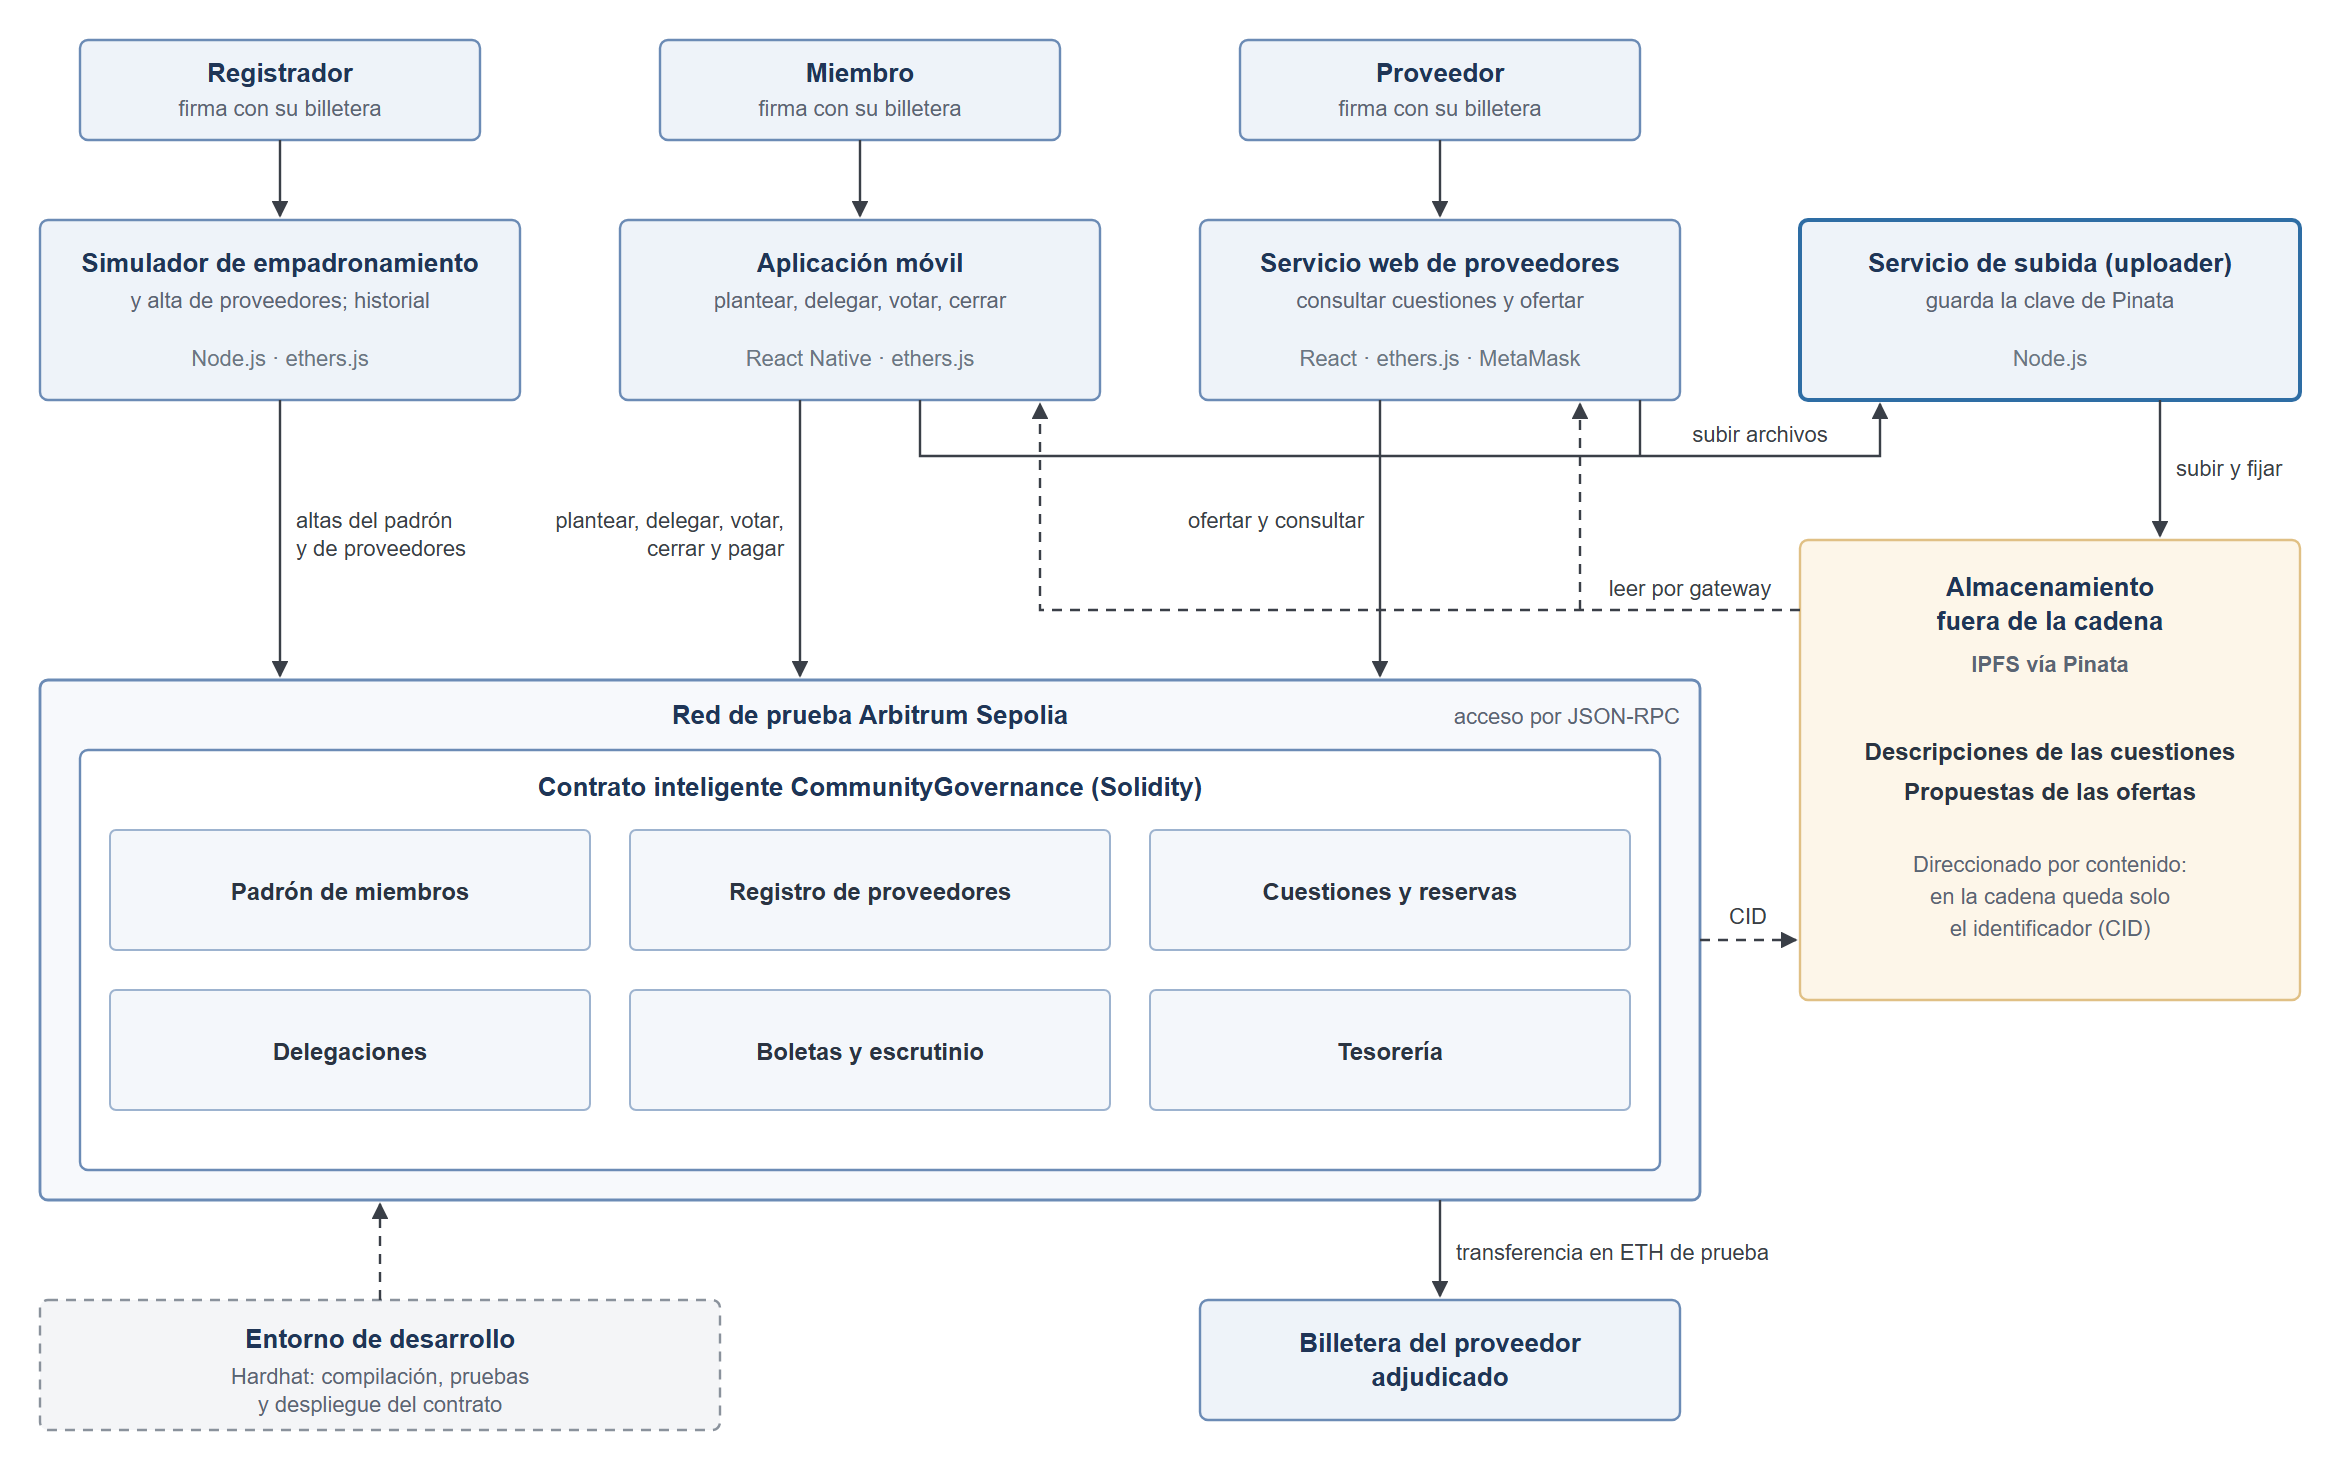
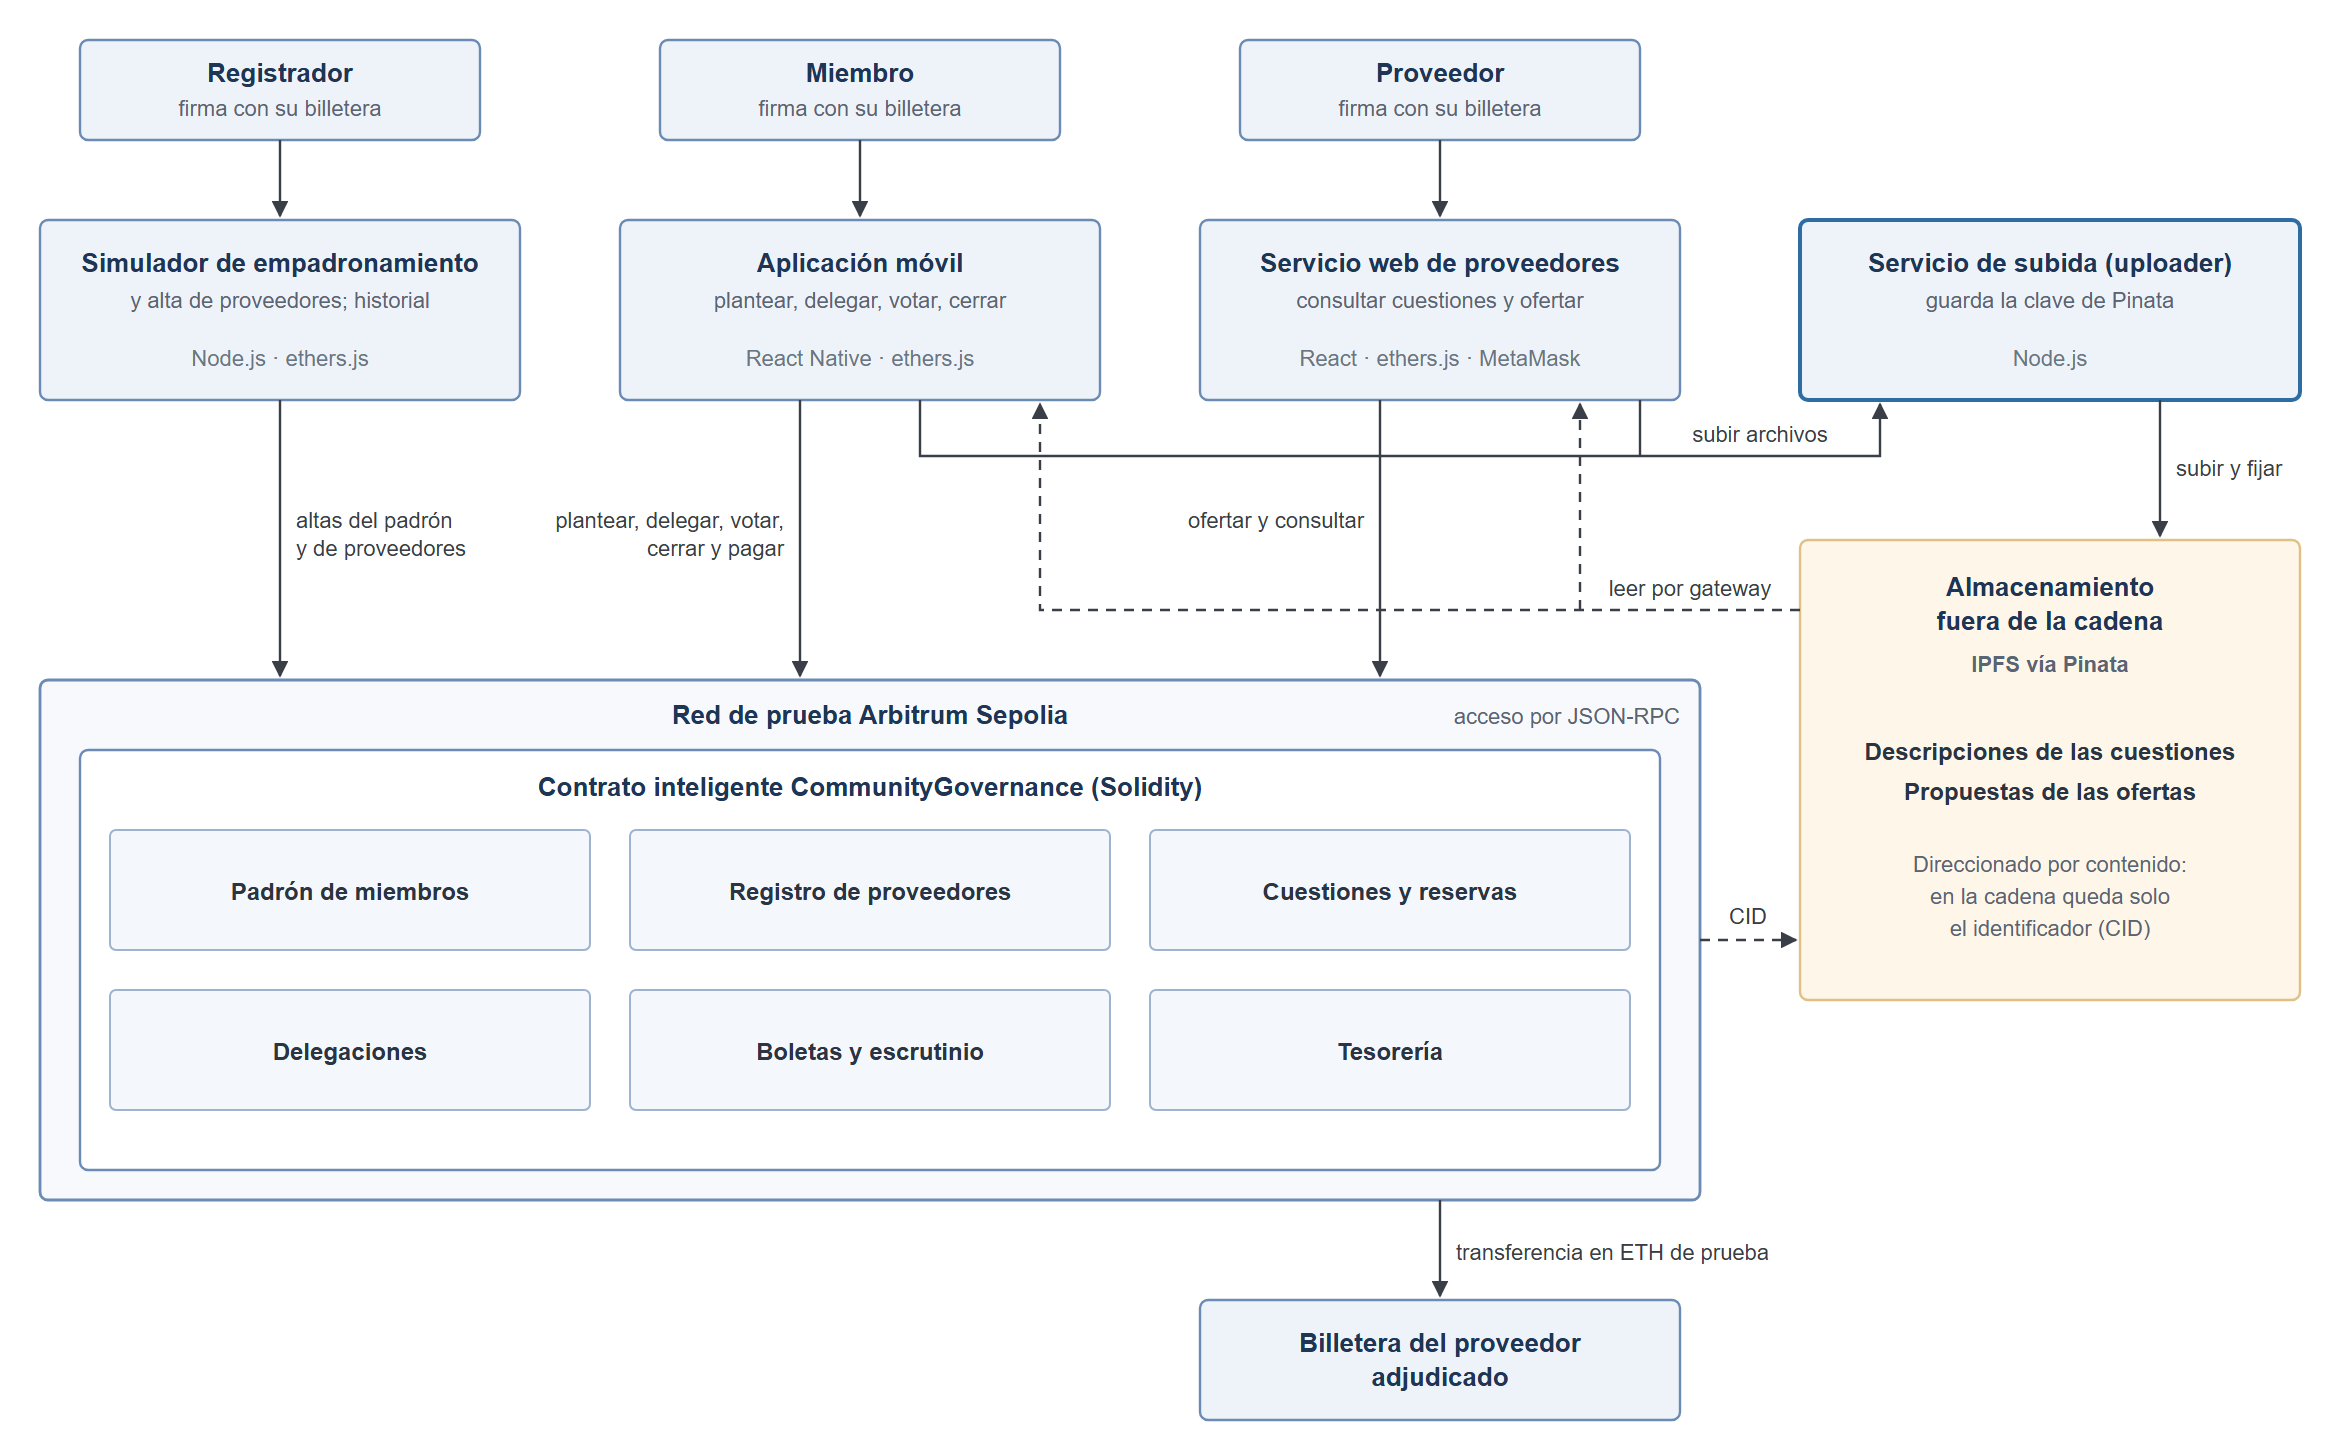
docs: drop the development environment from Fig. 11

diff --git a/docs/prototype/thesis-sync.md b/docs/prototype/thesis-sync.md
@@ -34,4 +34,4 @@ here; the author updates the document and ticks the item.
   - Fig. 7: **no attachments** (the description is typed and uploaded to IPFS as a text file) and **no peso conversion**; there is a **topic selector** (fixed list).
   - Fig. 8: the ranking is built by **tapping options in order of preference** (no drag and drop); the screen reports how many members delegated to the voter, not "1 propio + 3 delegados". With the 1/3 cap, 3 delegations need a registry of 12+ weight.
   - Fig. 9: **no direct "change delegate"**: the member must revoke first (contract: `AlreadyDelegating`). No "7 de 12 pesos" counters: members who would exceed the cap appear disabled with the reason.
-- [ ] **Figura 11 (architecture), 2026-11-04:** replace with `docs/diagramas/fig11-architecture.png` (source `.svg`). It adds the **upload service (uploader)**: a separate Node.js service that holds the Pinata key; the member app and the supplier portal upload files through it (not straight to Pinata) and read them back through the IPFS gateway. The portal box no longer says Node.js. Check the text that describes the architecture, and anywhere the document says that the portal or the app uploads directly to Pinata or that the portal has its own Node.js endpoint.
+- [ ] **Figura 11 (architecture), 2026-11-04:** replace with `docs/diagramas/fig11-architecture.png` (source `.svg`). The **development environment** box (Hardhat) is removed. It adds the **upload service (uploader)**: a separate Node.js service that holds the Pinata key; the member app and the supplier portal upload files through it (not straight to Pinata) and read them back through the IPFS gateway. The portal box no longer says Node.js. Check the text that describes the architecture, and anywhere the document says that the portal or the app uploads directly to Pinata or that the portal has its own Node.js endpoint.

diff --git a/docs/prototype/architecture.md b/docs/prototype/architecture.md
@@ -21,9 +21,10 @@ Thesis Figura 11, updated 2026-11-04 with the upload service: `docs/diagramas/fi
  │  padrón · proveedores · cuestiones y reservas ·              │──► transfer (test ETH)
  │  delegaciones · boletas y escrutinio · tesorería             │     to awarded supplier
  └──────────────────────────────────────────────────────────────┘
-        ▲                       (only the CID of each file goes on-chain)
- Dev environment: Hardhat (compile, test, deploy)
+                                (only the CID of each file goes on-chain)
 ```
+
+The development environment (Hardhat: compile, test, deploy) is not part of the figure.
 
 ## Components
 
